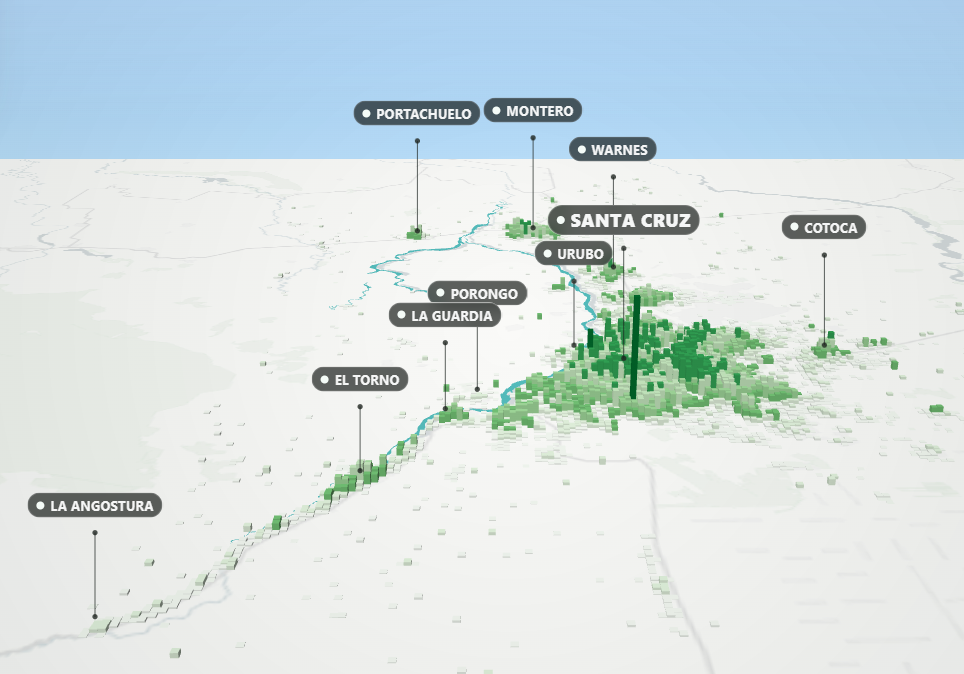
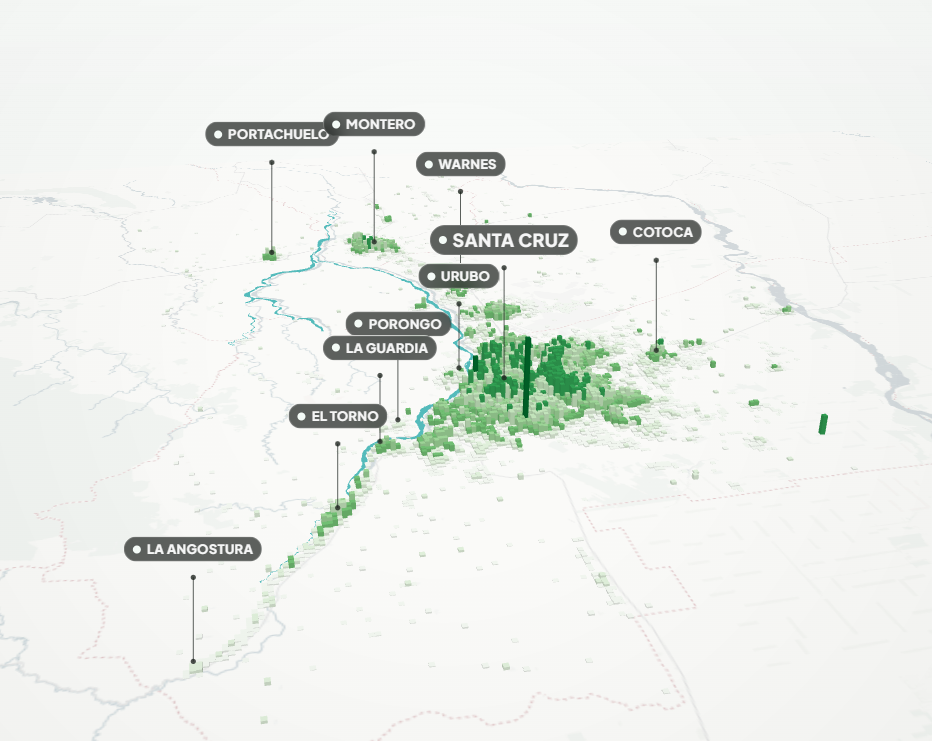
Add mapa3delectoral

diff --git a/geoportafolio.html b/geoportafolio.html
@@ -494,7 +494,7 @@
                     </figcaption>
                 </figure>
                 <figure class="gallery-card reveal" data-category="map3d">
-                    <img src="assets/mapa3dpoblacion.png"
+                    <img src="assets/mapa3dpoblacion.webp"
                         alt="Mapa 3D de población en el área metropolitana de Santa Cruz" loading="lazy"
                         decoding="async">
                     <figcaption>
@@ -502,6 +502,17 @@
                         <span data-i18n="geo-sc3d-desc">Mapa 3D sobre población en Santa Cruz y lectura territorial del
                             crecimiento metropolitano.</span>
                         <a class="gallery-link" href="https://gustavocaceresmartinez.com/metropoli/" target="_blank"
+                            rel="noreferrer" data-i18n="geo-link-view3d">Ver mapa 3D</a>
+                    </figcaption>
+                </figure>
+                <figure class="gallery-card reveal" data-category="map3d">
+                    <img src="assets/mapa3delecciones.webp"
+                        alt="Resultados Electorales Bolivia 2025 - 3D" loading="lazy"
+                        decoding="async">
+                    <figcaption>
+                        <strong data-i18n="geo-elec2025-title">Resultados Electorales Bolivia 2025 (3D)</strong>
+                        <span data-i18n="geo-elec2025-desc">Visualización interactiva en 3D de la participación ciudadana y resultados de las Elecciones Generales 2025 a nivel de recintos.</span>
+                        <a class="gallery-link" href="https://gustavocaceresmartinez.com/elecciones-2025/mapa3d.html" target="_blank"
                             rel="noreferrer" data-i18n="geo-link-view3d">Ver mapa 3D</a>
                     </figcaption>
                 </figure>

diff --git a/index.html b/index.html
@@ -568,13 +568,23 @@
           </figcaption>
         </figure>
         <figure class="gallery-card reveal" data-category="map3d">
-          <img src="assets/mapa3dpoblacion.png" alt="Mapa 3D de población en el área metropolitana de Santa Cruz"
+          <img src="assets/mapa3dpoblacion.webp" alt="Mapa 3D de población en el área metropolitana de Santa Cruz"
             loading="lazy" decoding="async">
           <figcaption>
             <strong data-i18n="geo-sc3d-title">Mapa 3D de población en Santa Cruz</strong>
             <span data-i18n="geo-sc3d-desc">Mapa 3D sobre población en Santa Cruz y lectura territorial del crecimiento
               metropolitano.</span>
             <a class="gallery-link" href="https://gustavocaceresmartinez.com/metropoli/" target="_blank"
+              rel="noreferrer" data-i18n="geo-link-view3d">Ver mapa 3D</a>
+          </figcaption>
+        </figure>
+        <figure class="gallery-card reveal" data-category="map3d">
+          <img src="assets/mapa3delecciones.webp" alt="Resultados Electorales Bolivia 2025 - 3D" loading="lazy"
+            decoding="async">
+          <figcaption>
+            <strong data-i18n="geo-elec2025-title">Resultados Electorales Bolivia 2025 (3D)</strong>
+            <span data-i18n="geo-elec2025-desc">Visualización interactiva en 3D de la participación ciudadana y resultados de las Elecciones Generales 2025 a nivel de recintos.</span>
+            <a class="gallery-link" href="https://gustavocaceresmartinez.com/elecciones-2025/mapa3d.html" target="_blank"
               rel="noreferrer" data-i18n="geo-link-view3d">Ver mapa 3D</a>
           </figcaption>
         </figure>

diff --git a/script.js b/script.js
@@ -1459,6 +1459,8 @@ const translations = {
         "geo-sc3d-title": "Mapa 3D de población en Santa Cruz",
         "geo-sc3d-desc": "Mapa 3D sobre población en Santa Cruz y lectura territorial del crecimiento metropolitano.",
         "geo-link-view3d": "Ver mapa 3D",
+        "geo-elec2025-title": "Resultados Electorales Bolivia 2025 (3D)",
+        "geo-elec2025-desc": "Visualización interactiva en 3D de la participación ciudadana y resultados de las Elecciones Generales 2025 a nivel de recintos.",
         "geo-digital-title": "Mapas Digitales",
         "geo-digital-desc": "Visor web de cartografía digital para explorar información territorial de Santa Cruz.",
         "geo-link-viewdigital": "Ver mapa digital",
@@ -1701,6 +1703,8 @@ const translations = {
         "geo-sc3d-title": "3D Population Map of Santa Cruz",
         "geo-sc3d-desc": "3D map on Santa Cruz population and territorial reading of metropolitan growth.",
         "geo-link-view3d": "View 3D map",
+        "geo-elec2025-title": "Bolivia 2025 Electoral Results (3D)",
+        "geo-elec2025-desc": "Interactive 3D visualization of voter turnout and results of the 2025 General Elections at the polling station level.",
         "geo-digital-title": "Digital Maps",
         "geo-digital-desc": "Web viewer of digital cartography to explore Santa Cruz territorial information.",
         "geo-link-viewdigital": "View digital map",
